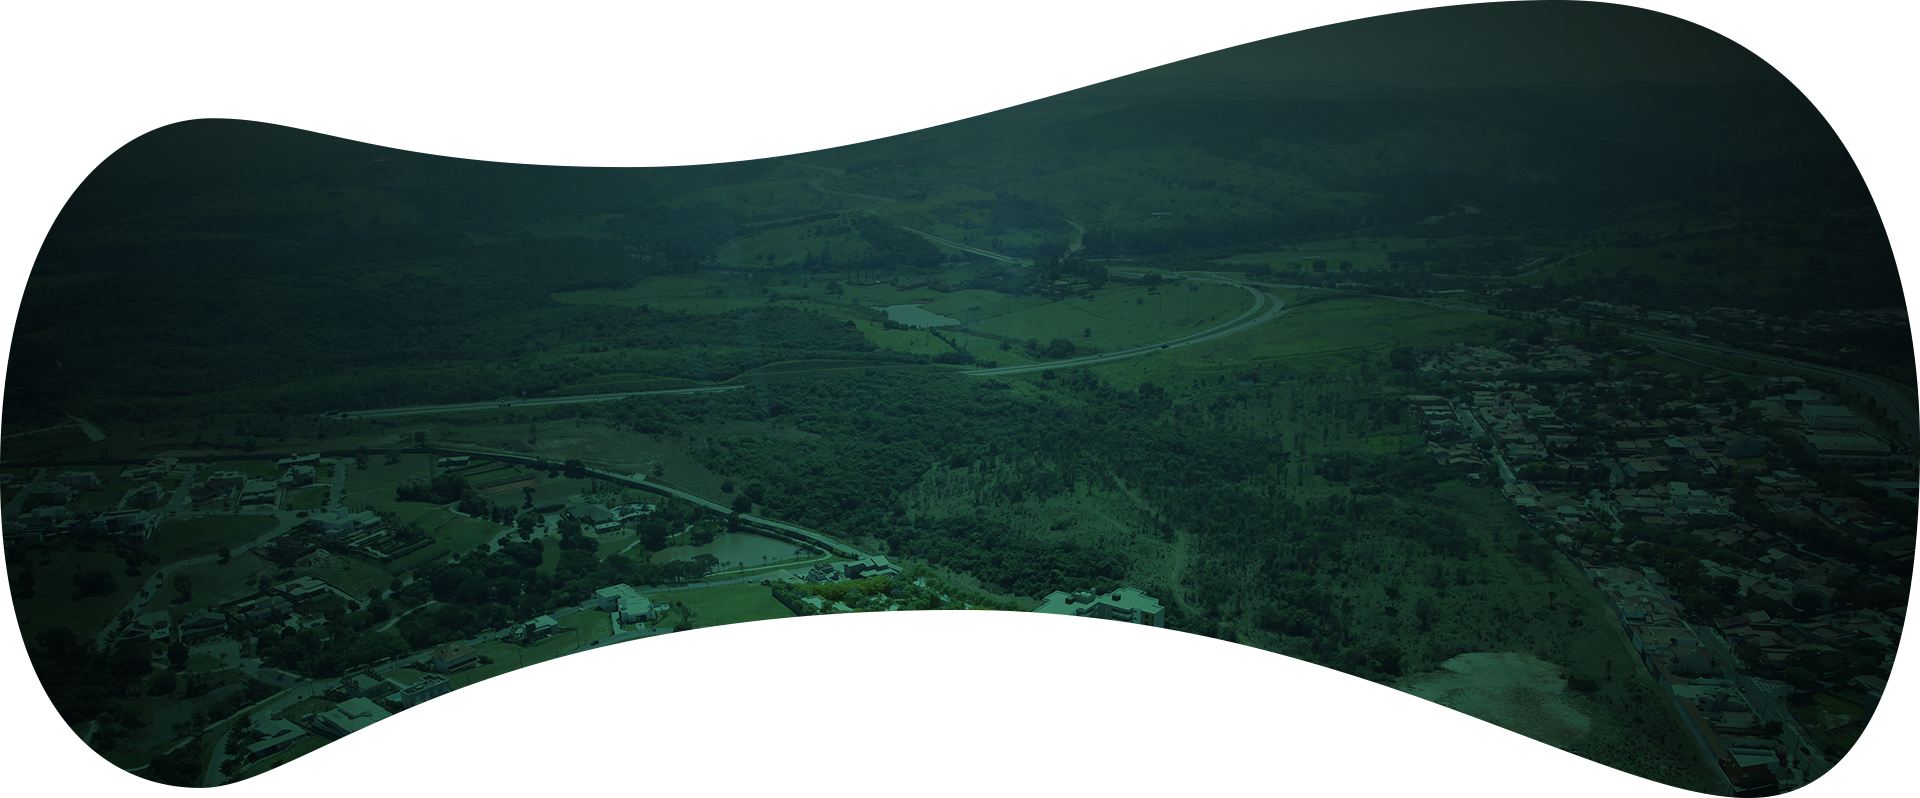
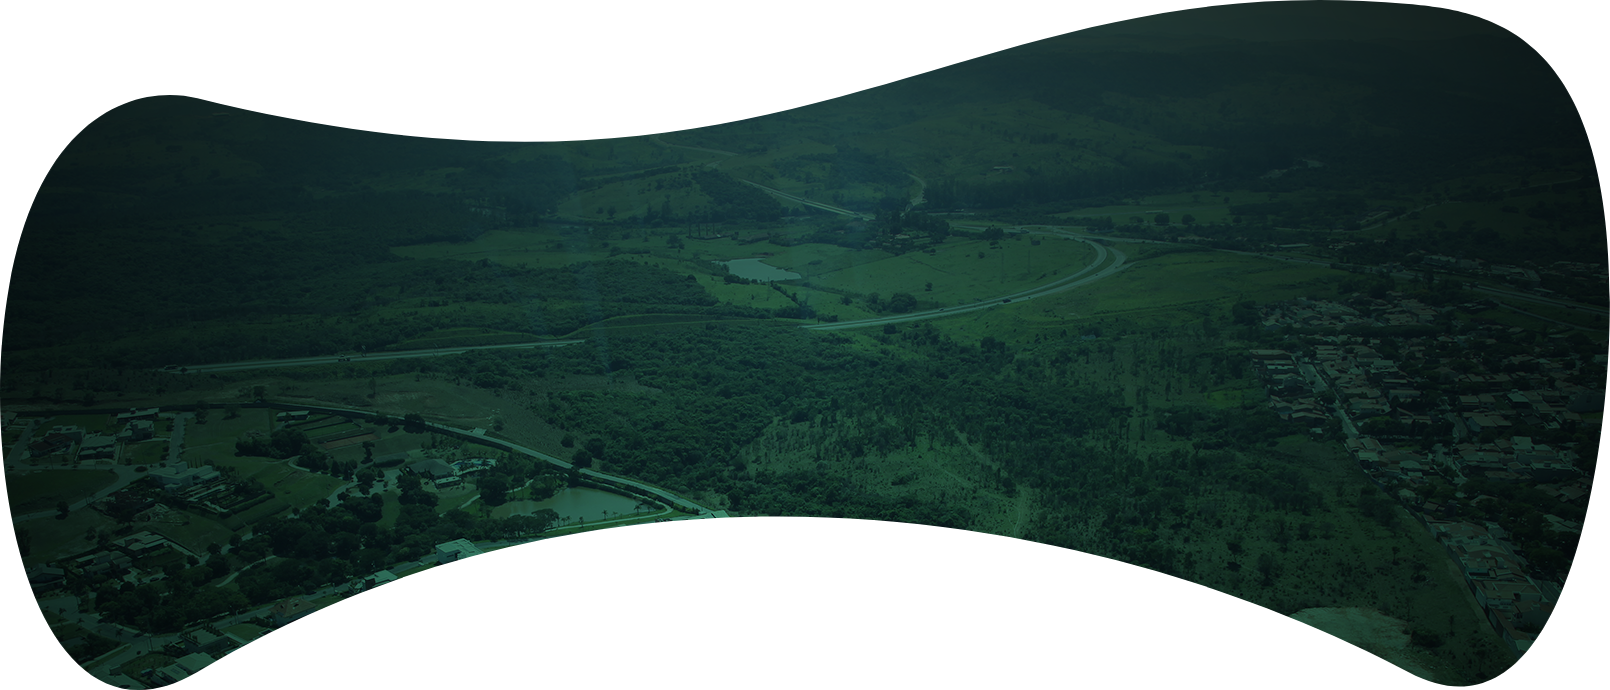
Adjustments in the areas section

diff --git a/index.html b/index.html
@@ -245,12 +245,12 @@
         #gsm-about-2 {
   position: relative;
   margin-top: 20px;
-  margin-bottom: 100px;
+  margin-bottom: 20px;
 }
 
 @media(min-width: 992px) {
   #gsm-about-2 {
-    margin-bottom: 127px;
+    margin-bottom: 80px;
   }
 }
 
@@ -340,7 +340,24 @@
     margin-left: 47px;
   }
 }
-        #gsm-areas p {
+        #gsm-areas {
+  position: relative;
+  margin-bottom: 20px;
+}
+
+@media(min-width: 768px) {
+  #gsm-areas {
+    margin-bottom: 120px;
+  }
+}
+
+@media(min-width: 992px) {
+  #gsm-areas {
+    margin-bottom: 110px;
+  }
+}
+
+#gsm-areas p {
   margin: 0;
   padding: 0;
 }
@@ -354,33 +371,40 @@
 }
 
 #gsm-areas .areas-bg {
-  background-image: url("imgs/areas/areas_bg.png");
+  background-image: url("imgs/areas/areas_bg_mobile.png");
   background-repeat: no-repeat;
   background-position: center;
-  background-size: auto 115%;
+  background-size: auto 80%;
+}
+
+@media(min-width: 576px) {
+  #gsm-areas .areas-bg {
+    background-size: auto 80%;
+  }
 }
 
 @media(min-width: 768px) {
   #gsm-areas .areas-bg {
-    background-size: auto 110%;
+    background-size: auto 96%;
   }
 }
 
 @media(min-width: 992px) {
   #gsm-areas .areas-bg {
+    background-image: url("imgs/areas/areas_bg.png");
     background-size: auto 100%;
   }
 }
 
 #gsm-areas .areas-content {
-  padding-top: 156px;
-  padding-bottom: 215px;
+  padding-top: 147px;
+  padding-bottom: 130px;
 }
 
 @media(min-width: 768px) {
   #gsm-areas .areas-content {
-    padding-top: 254px;
-    padding-bottom: 297px;
+    padding-top: 149px;
+    padding-bottom: 100px;
   }
 }
 
@@ -399,15 +423,9 @@
   height: auto;
 }
 
-@media(min-width: 576px) {
-  #gsm-areas .icon-img {
-    max-width: 120px;
-  }
-}
-
 @media(min-width: 768px) {
   #gsm-areas .icon-img {
-    max-width: 100%;
+    max-width: 115px;
   }
 }
 
@@ -419,7 +437,9 @@
 }
 
 @media(min-width: 768px) {
-  font-family: 'Sansation', sans-serif; font-size: 20px; font-weight: 400; line-height: 1.1;
+  #gsm-areas .icon-description {
+    font-family: 'Sansation', sans-serif; font-size: 20px; font-weight: 400; line-height: 1.1;
+  }
 }
 
 #gsm-areas .icons-wrapper {
@@ -427,11 +447,10 @@
   flex-wrap: wrap;
 }
 
-@media (min-width: 992px) {
-  #gsm-areas .icon-description {
-  }
 
-  #gsm-areas .icon-img {
+@media (min-width: 992px) {
+  #gsm-areas .icons-wrapper {
+    padding: 0 70px;
   }
 }
 
@@ -453,7 +472,15 @@
 }
 
 #gsm-areas .areas-title {
+  position: relative;
+  top: 100px;
   display: flex;
+}
+
+@media(min-width: 768px) {
+  #gsm-areas .areas-title {
+    top: 49px;
+  }
 }
 
 #gsm-areas .section-header {
@@ -465,6 +492,7 @@
   color: #4EBC97;
   font-family: 'Sansation', sans-serif; font-size: 20px; font-weight: 700; line-height: 1;
   font-size: 50px;
+  line-height: 0.8;
 }
         #gsm-cases {
   margin-bottom: 120px;

diff --git a/templates/styles/areas.css b/templates/styles/areas.css
@@ -1,3 +1,20 @@
+#gsm-areas {
+  position: relative;
+  margin-bottom: 20px;
+}
+
+@media(min-width: 768px) {
+  #gsm-areas {
+    margin-bottom: 120px;
+  }
+}
+
+@media(min-width: 992px) {
+  #gsm-areas {
+    margin-bottom: 110px;
+  }
+}
+
 #gsm-areas p {
   margin: 0;
   padding: 0;
@@ -12,33 +29,40 @@
 }
 
 #gsm-areas .areas-bg {
-  background-image: url("imgs/areas/areas_bg.png");
+  background-image: url("imgs/areas/areas_bg_mobile.png");
   background-repeat: no-repeat;
   background-position: center;
-  background-size: auto 115%;
+  background-size: auto 80%;
+}
+
+@media(min-width: 576px) {
+  #gsm-areas .areas-bg {
+    background-size: auto 80%;
+  }
 }
 
 @media(min-width: 768px) {
   #gsm-areas .areas-bg {
-    background-size: auto 110%;
+    background-size: auto 96%;
   }
 }
 
 @media(min-width: 992px) {
   #gsm-areas .areas-bg {
+    background-image: url("imgs/areas/areas_bg.png");
     background-size: auto 100%;
   }
 }
 
 #gsm-areas .areas-content {
-  padding-top: 156px;
-  padding-bottom: 215px;
+  padding-top: 147px;
+  padding-bottom: 130px;
 }
 
 @media(min-width: 768px) {
   #gsm-areas .areas-content {
-    padding-top: 254px;
-    padding-bottom: 297px;
+    padding-top: 149px;
+    padding-bottom: 100px;
   }
 }
 
@@ -57,15 +81,9 @@
   height: auto;
 }
 
-@media(min-width: 576px) {
-  #gsm-areas .icon-img {
-    max-width: 120px;
-  }
-}
-
 @media(min-width: 768px) {
   #gsm-areas .icon-img {
-    max-width: 100%;
+    max-width: 115px;
   }
 }
 
@@ -77,7 +95,9 @@
 }
 
 @media(min-width: 768px) {
-  {{ data["typography"]["desktop"]["text_big"] }}
+  #gsm-areas .icon-description {
+    {{ data["typography"]["desktop"]["text_big"] }}
+  }
 }
 
 #gsm-areas .icons-wrapper {
@@ -85,11 +105,10 @@
   flex-wrap: wrap;
 }
 
-@media (min-width: 992px) {
-  #gsm-areas .icon-description {
-  }
 
-  #gsm-areas .icon-img {
+@media (min-width: 992px) {
+  #gsm-areas .icons-wrapper {
+    padding: 0 70px;
   }
 }
 
@@ -111,7 +130,15 @@
 }
 
 #gsm-areas .areas-title {
+  position: relative;
+  top: 100px;
   display: flex;
+}
+
+@media(min-width: 768px) {
+  #gsm-areas .areas-title {
+    top: 49px;
+  }
 }
 
 #gsm-areas .section-header {
@@ -123,4 +150,5 @@
   color: {{ data["palette"]["light_green"] }};
   {{ data["typography"]["mobile"]["header"] }}
   font-size: 50px;
+  line-height: 0.8;
 }

diff --git a/templates/styles/about_two.css b/templates/styles/about_two.css
@@ -1,12 +1,12 @@
 #gsm-about-2 {
   position: relative;
   margin-top: 20px;
-  margin-bottom: 100px;
+  margin-bottom: 20px;
 }
 
 @media(min-width: 992px) {
   #gsm-about-2 {
-    margin-bottom: 127px;
+    margin-bottom: 80px;
   }
 }
 
